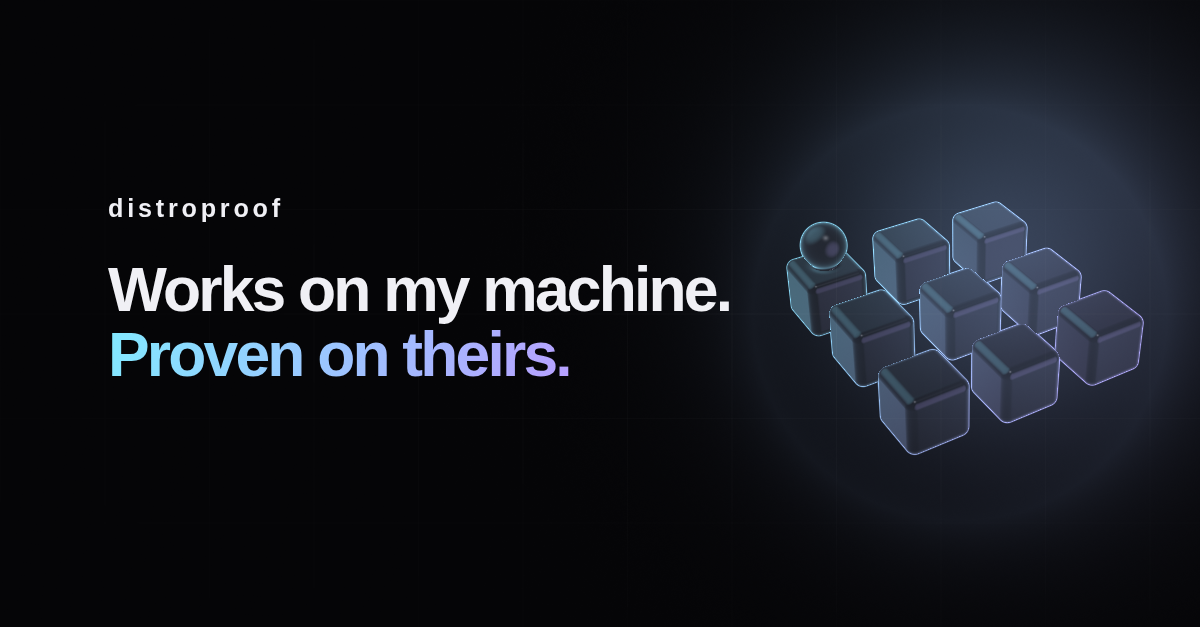
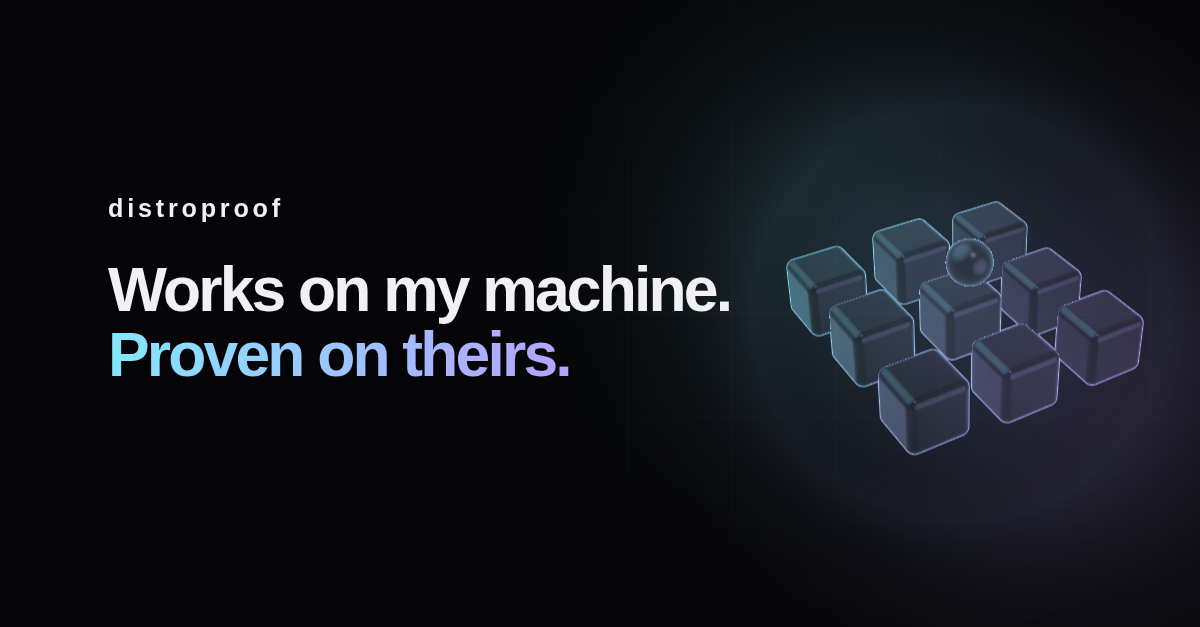
distroproof visuals: the bead over the middle target, clear of it
The LinkedIn post and the square now show the bead above the middle target
with a gap, instead of resting on the corner one. The script renders with
the graphics card (src/scene.ts no longer draws in software), takes the
pages to render on its command line, and writes where the visuals live.

Changed region(s): [[0.7708, 0.1212, 0.9867, 0.4848], [0.6475, 0.3333, 0.7092, 0.4242]]

diff --git a/scripts/social-pages.ts b/scripts/social-pages.ts
@@ -8,10 +8,13 @@ const base = process.env.SOCIAL_BASE_URL || 'http://127.0.0.1:5174'
 const browser = await chromium.launch({
   executablePath: process.env.CHROME_PATH,
   headless: true,
-  args: ['--no-sandbox', '--use-angle=swiftshader', '--enable-unsafe-swiftshader'],
+  // the glass needs a graphics card: src/scene.ts refuses to draw in software
+  args: ['--no-sandbox', '--use-angle=vulkan', '--enable-features=Vulkan', '--enable-gpu', '--ignore-gpu-blocklist'],
 })
-// the pages of src/pages.ts that have social visuals
-const pages = site.flatMap((p) => (p.preview && p.brand ? [[p.preview, route(p), { brand: p.brand, shape: p.shape }] as const] : []))
+// the pages of src/pages.ts that have social visuals, or those named on the
+// command line (`node scripts/social-pages.ts distroproof`)
+const only = process.argv.slice(2)
+const pages = site.flatMap((p) => (p.preview && p.brand && (!only.length || only.includes(p.preview)) ? [[p.preview, route(p), { brand: p.brand, shape: p.shape }] as const] : []))
 const formats = [['linkedin-post', 1200, 627], ['social-square', 1080, 1080]]
 const manifest: { id: string; brand: string; route: string; shape: string; slogan: string[]; files: string[] }[] = []
 try {
@@ -23,7 +26,7 @@ try {
     const lines = await page.locator('.hero h1').innerText()
     const [line1, line2] = (lines as string).split('\n').map((s) => s.trim()).filter(Boolean)
     if (!line1 || !line2) throw new Error(`Missing slogan for ${id}`)
-    const directory = resolve('assets/pages', id)
+    const directory = resolve('assets/devutils-linkedin-pages/pages', id)
     await mkdir(directory, { recursive: true })
     const files: string[] = []
     for (const [format, width, height] of formats) {
@@ -47,5 +50,5 @@ try {
   await browser.close()
 }
 await writeFile('out/output/social-pages/manifest.json', JSON.stringify(manifest, null, 2) + '\n')
-const cards = manifest.map(p => `<article><h2>${p.brand}</h2><p>${p.slogan.join(' ')}</p>${p.files.map(f => `<a href="../../../assets/pages/${p.id}/${f}"><img src="../../../assets/pages/${p.id}/${f}" alt="${p.brand}: ${p.slogan.join(' ')}"><small>${f}</small></a>`).join('')}</article>`).join('\n')
+const cards = manifest.map(p => `<article><h2>${p.brand}</h2><p>${p.slogan.join(' ')}</p>${p.files.map(f => `<a href="../../../assets/devutils-linkedin-pages/pages/${p.id}/${f}"><img src="../../../assets/devutils-linkedin-pages/pages/${p.id}/${f}" alt="${p.brand}: ${p.slogan.join(' ')}"><small>${f}</small></a>`).join('')}</article>`).join('\n')
 await writeFile('out/output/social-pages/index.html', `<!doctype html><html lang="fr"><meta charset="utf-8"><title>Devutils — LinkedIn par page</title><style>body{background:#08090d;color:#eee;font:16px system-ui;max-width:1400px;margin:40px auto;padding:24px}article{margin:48px 0}a{display:inline-block;vertical-align:top;width:46%;margin-right:2%;color:#9cf5ff}img{width:100%;display:block}small{display:block;margin:12px 0}</style><h1>Devutils — visuels par page</h1><p>Slogans et symboles 3D des pages actuelles. Cliquer sur une image pour ouvrir le PNG.</p>${cards}</html>`)
